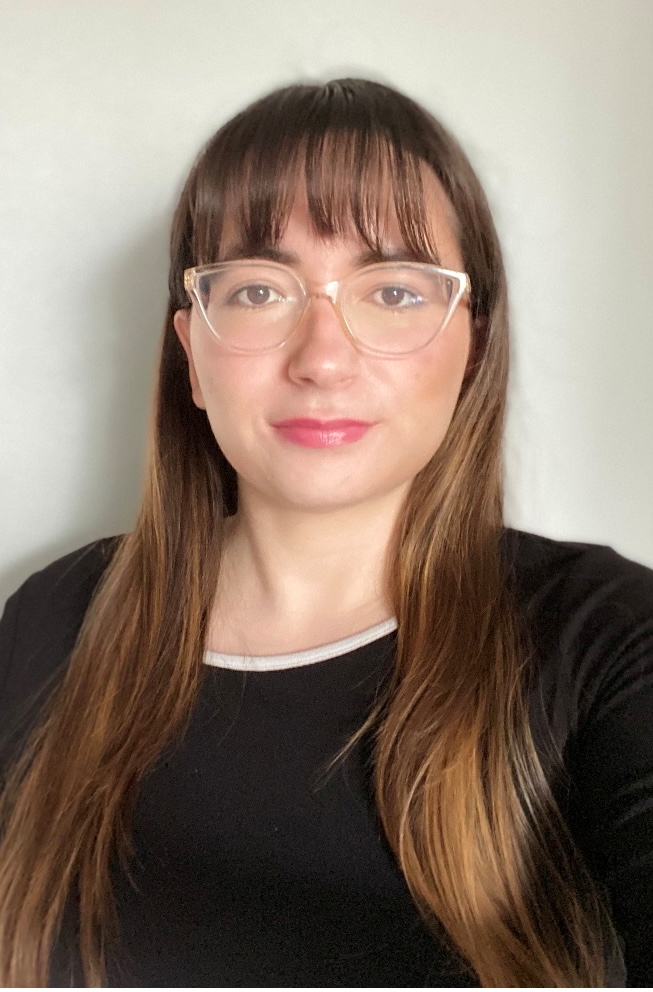
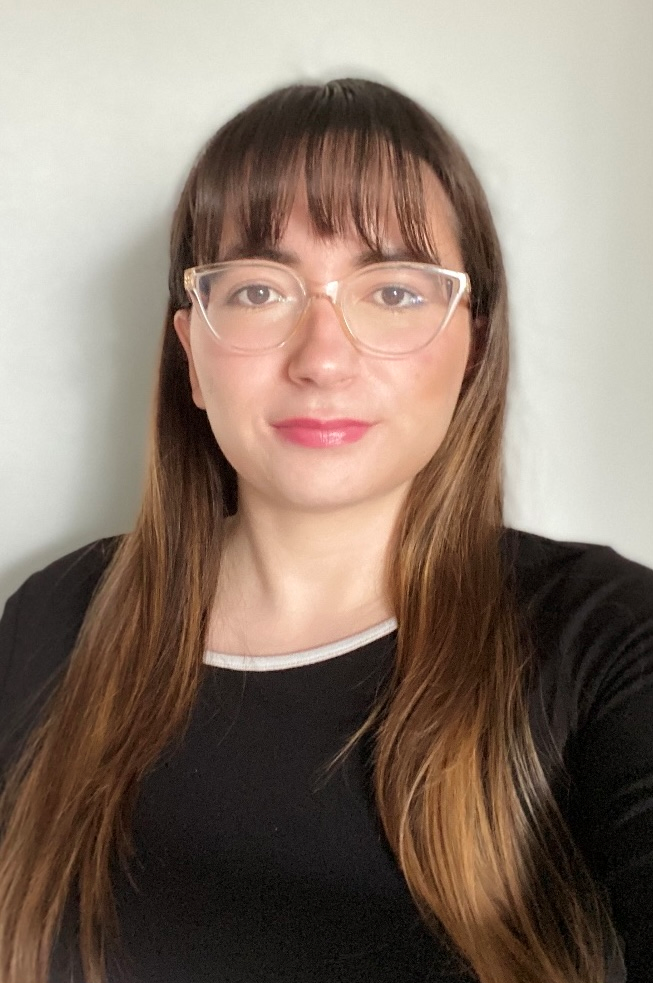
adding more photos

diff --git a/_site/ContactUs.html b/_site/ContactUs.html
@@ -174,8 +174,8 @@ ul.task-list li input[type="checkbox"] {
 <p>We are located at Middlesex Universty, The Burroughs, London NW4 4BT. <a href="https://unihub.mdx.ac.uk/campus/hendon">Information on travel</a>, if you are planning a visit.</p>
 <div class="cell page-columns page-full">
 <div class="cell-output-display column-screen">
-<div class="leaflet html-widget html-fill-item-overflow-hidden html-fill-item" id="htmlwidget-9d188d5a2d81e029a2d4" style="width:100%;height:464px;"></div>
-<script type="application/json" data-for="htmlwidget-9d188d5a2d81e029a2d4">{"x":{"options":{"crs":{"crsClass":"L.CRS.EPSG3857","code":null,"proj4def":null,"projectedBounds":null,"options":{}}},"calls":[{"method":"addTiles","args":["https://{s}.tile.openstreetmap.org/{z}/{x}/{y}.png",null,null,{"minZoom":0,"maxZoom":18,"tileSize":256,"subdomains":"abc","errorTileUrl":"","tms":false,"noWrap":false,"zoomOffset":0,"zoomReverse":false,"opacity":1,"zIndex":1,"detectRetina":false,"attribution":"&copy; <a href=\"https://openstreetmap.org\">OpenStreetMap<\/a> contributors, <a href=\"https://creativecommons.org/licenses/by-sa/2.0/\">CC-BY-SA<\/a>"}]},{"method":"addMarkers","args":[51.58916499649419,-0.2287000948378908,null,null,null,{"interactive":true,"draggable":false,"keyboard":true,"title":"","alt":"","zIndexOffset":0,"opacity":1,"riseOnHover":false,"riseOffset":250},"Jones, Silas & Ward Lab",null,null,null,null,{"interactive":false,"permanent":false,"direction":"auto","opacity":1,"offset":[0,0],"textsize":"10px","textOnly":false,"className":"","sticky":true},null]}],"limits":{"lat":[51.58916499649419,51.58916499649419],"lng":[-0.2287000948378908,-0.2287000948378908]}},"evals":[],"jsHooks":[]}</script>
+<div class="leaflet html-widget html-fill-item-overflow-hidden html-fill-item" id="htmlwidget-52fefe539cb3d11ad7c3" style="width:100%;height:464px;"></div>
+<script type="application/json" data-for="htmlwidget-52fefe539cb3d11ad7c3">{"x":{"options":{"crs":{"crsClass":"L.CRS.EPSG3857","code":null,"proj4def":null,"projectedBounds":null,"options":{}}},"calls":[{"method":"addTiles","args":["https://{s}.tile.openstreetmap.org/{z}/{x}/{y}.png",null,null,{"minZoom":0,"maxZoom":18,"tileSize":256,"subdomains":"abc","errorTileUrl":"","tms":false,"noWrap":false,"zoomOffset":0,"zoomReverse":false,"opacity":1,"zIndex":1,"detectRetina":false,"attribution":"&copy; <a href=\"https://openstreetmap.org\">OpenStreetMap<\/a> contributors, <a href=\"https://creativecommons.org/licenses/by-sa/2.0/\">CC-BY-SA<\/a>"}]},{"method":"addMarkers","args":[51.58916499649419,-0.2287000948378908,null,null,null,{"interactive":true,"draggable":false,"keyboard":true,"title":"","alt":"","zIndexOffset":0,"opacity":1,"riseOnHover":false,"riseOffset":250},"Jones, Silas & Ward Lab",null,null,null,null,{"interactive":false,"permanent":false,"direction":"auto","opacity":1,"offset":[0,0],"textsize":"10px","textOnly":false,"className":"","sticky":true},null]}],"limits":{"lat":[51.58916499649419,51.58916499649419],"lng":[-0.2287000948378908,-0.2287000948378908]}},"evals":[],"jsHooks":[]}</script>
 </div>
 </div>
 

diff --git a/_site/TheTeam.html b/_site/TheTeam.html
@@ -227,7 +227,12 @@ ul.task-list li input[type="checkbox"] {
 <div class="quarto-layout-panel">
 <div class="quarto-layout-row quarto-layout-valign-top">
 <div class="quarto-layout-cell" style="flex-basis: 20.0%;justify-content: center;">
-<p>Jennifer Chacon</p>
+<div class="quarto-figure quarto-figure-left">
+<figure class="figure">
+<p><img src="images/Jennifer.png" class="img-fluid figure-img" width="100"></p>
+<figcaption class="figure-caption">Jennifer Chacon</figcaption>
+</figure>
+</div>
 </div>
 <div class="quarto-layout-cell" style="flex-basis: 80.0%;justify-content: center;">
 <p>Studying the role socail media plays in affecting our attention.</p>
